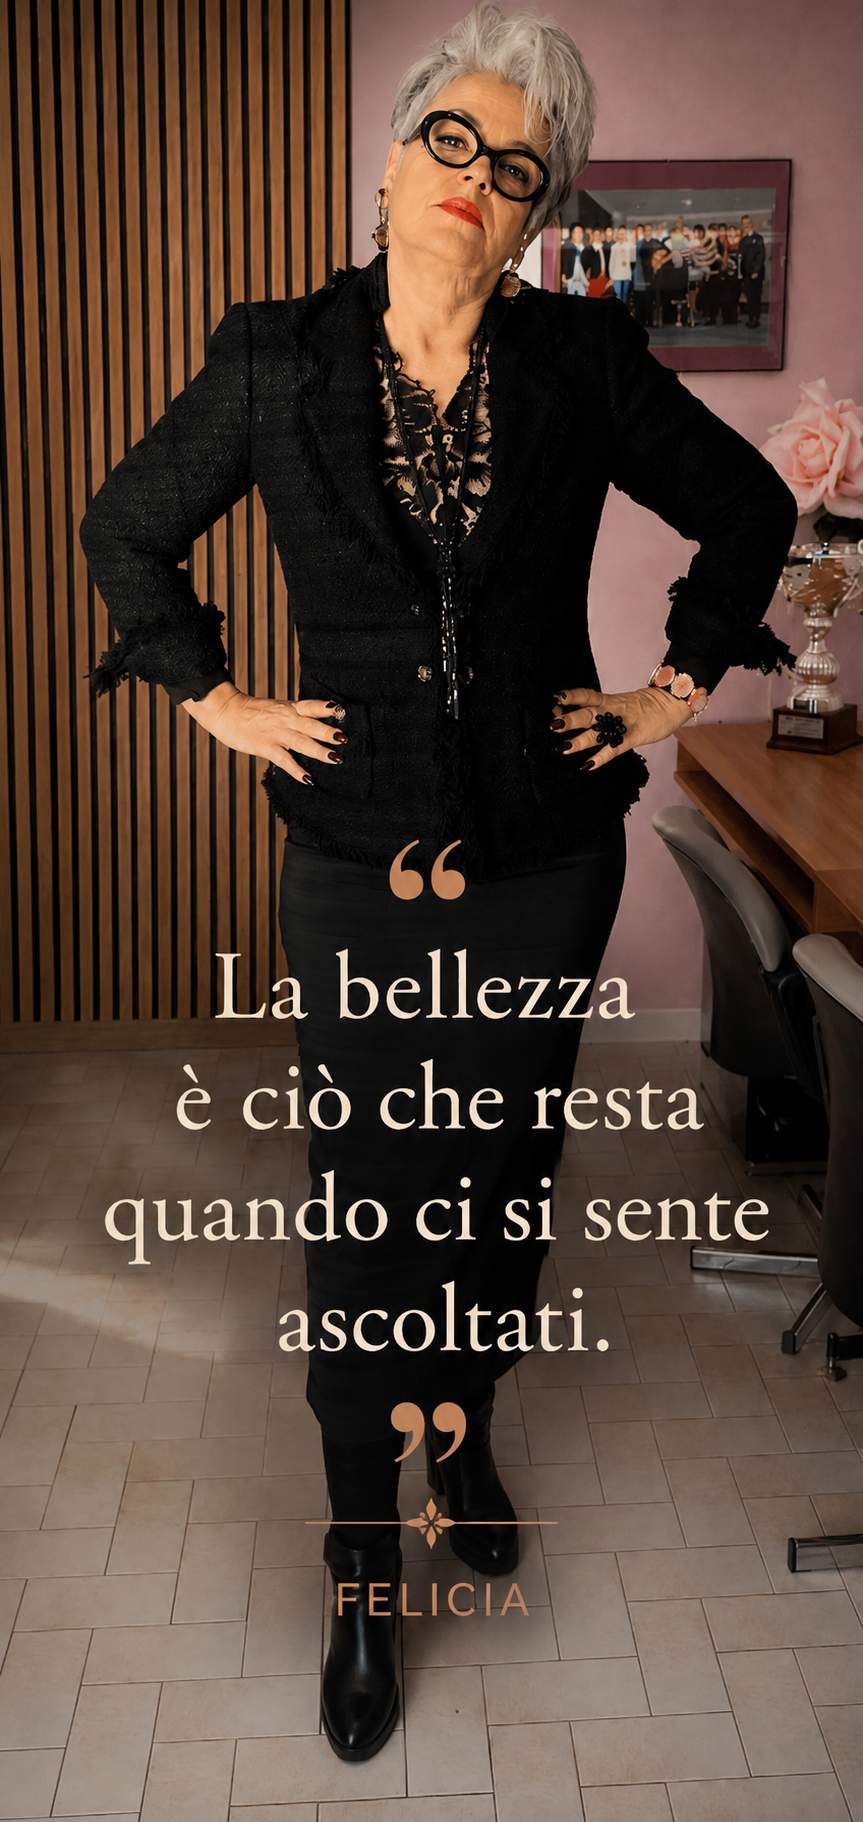
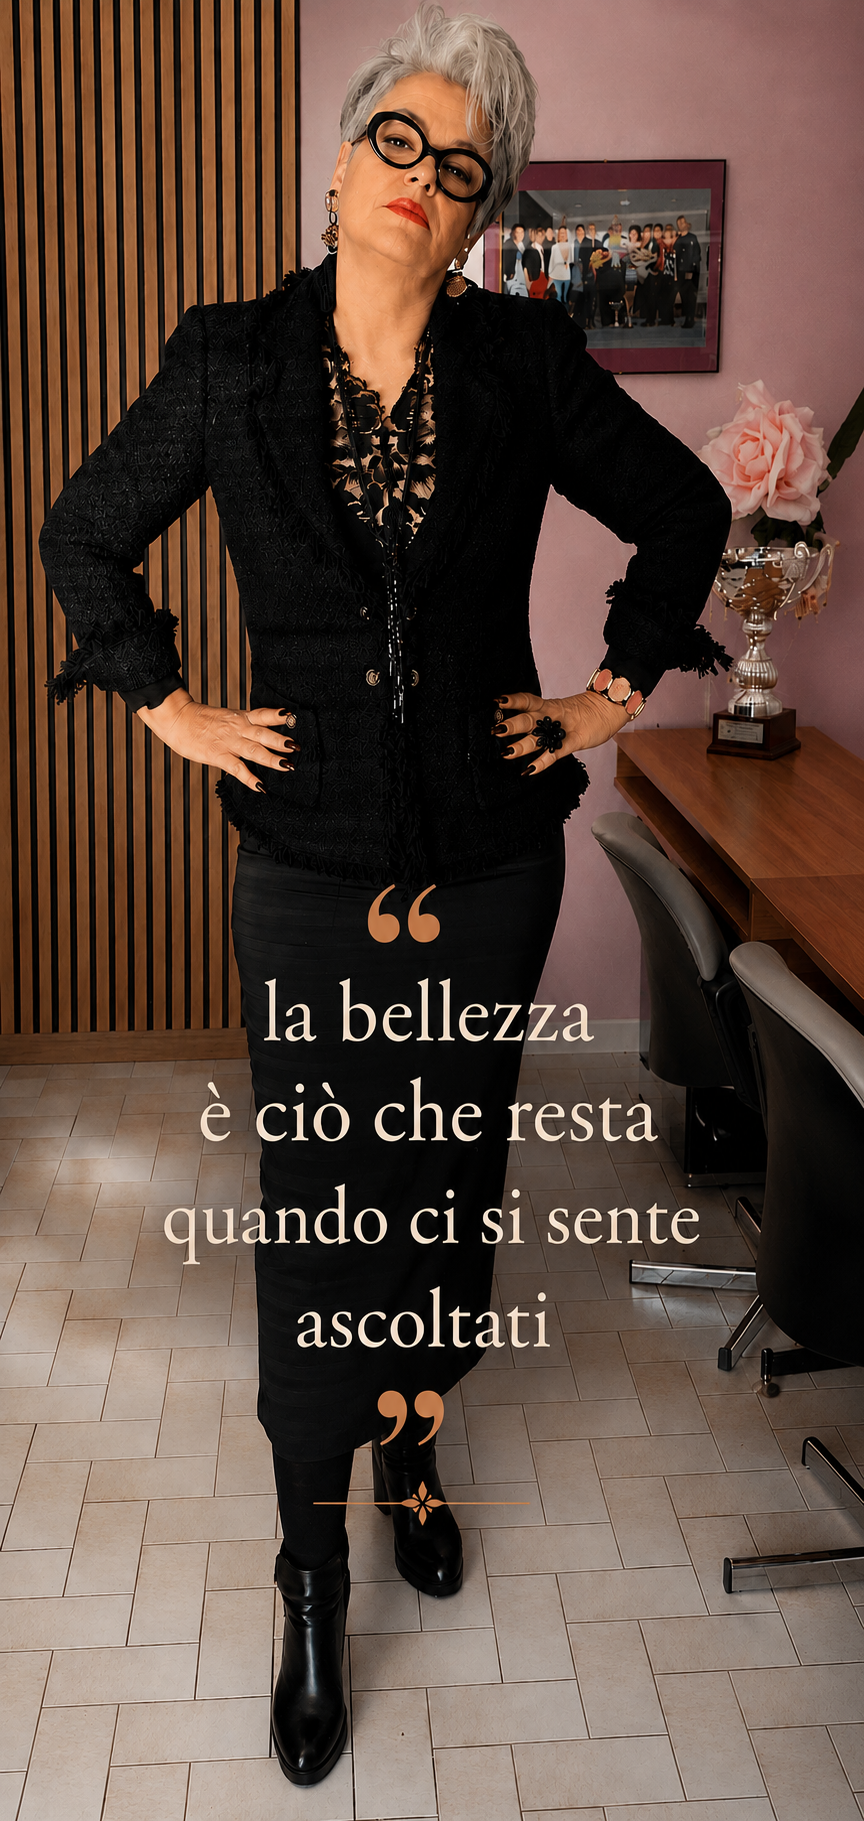
aggiornamento sito

diff --git a/index.html b/index.html
@@ -121,7 +121,7 @@
               </div>
             </div>
             <div class="manifesto-photo reveal" aria-label="Fotografia di Felicia">
-              <img src="images/felicia.png" alt="Felicia" />
+              <img src="images/felicia.png?v=20260820" alt="Felicia" />
             </div>
           </div>
         </section>
